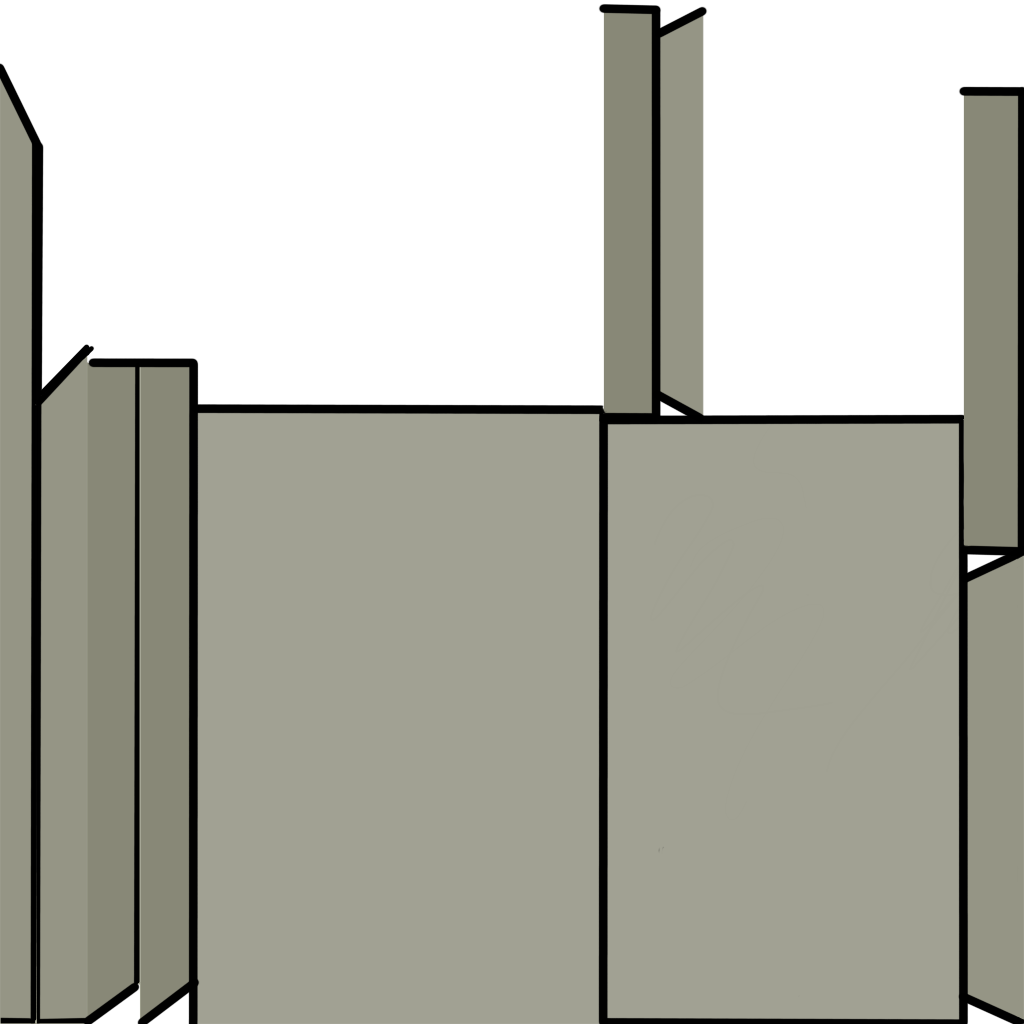
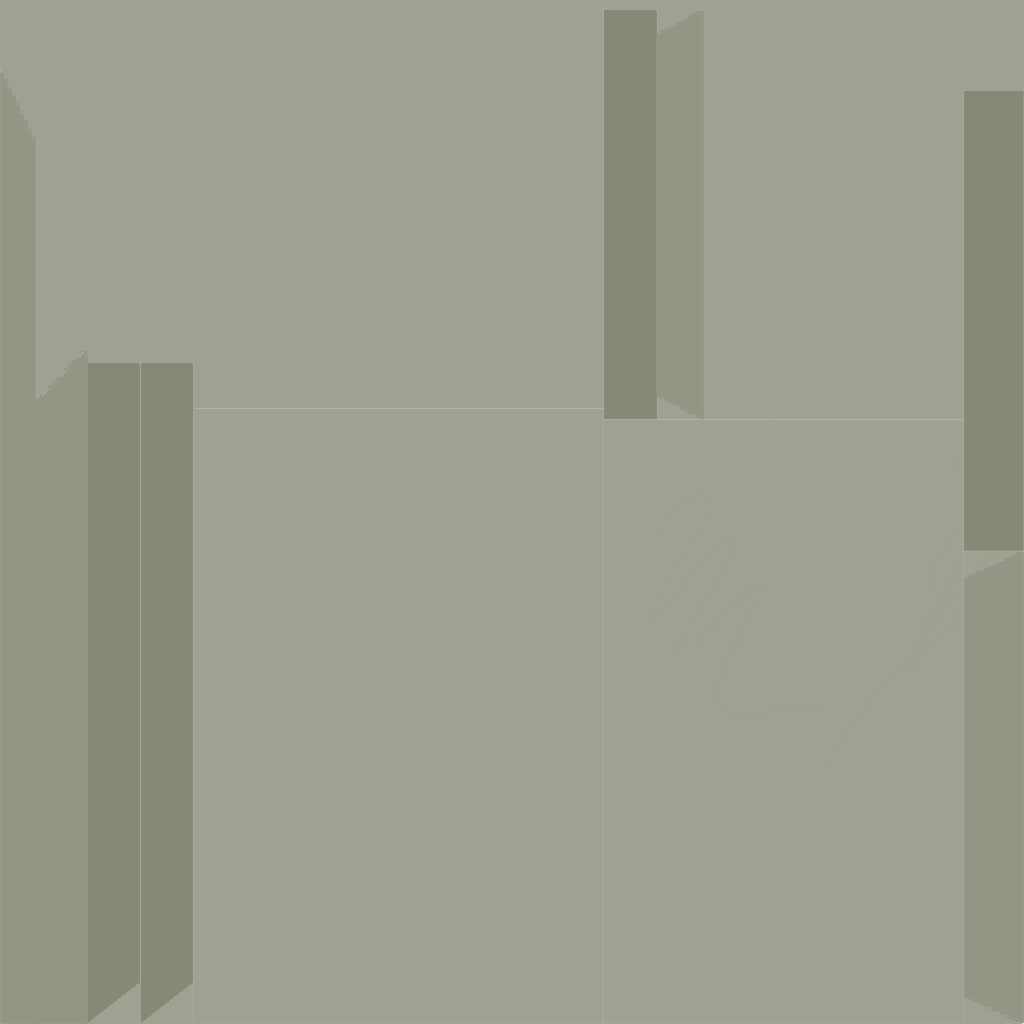
update

diff --git a/src/shaders/outline_shader.rs b/src/shaders/outline_shader.rs
@@ -32,7 +32,7 @@ pub struct OutlineShaderPlugin;
 
 impl Plugin for OutlineShaderPlugin {
     fn build(&self, app: &mut App) {
-        app.add_plugins((
+        app.register_type::<ToonPostProcessSettings>().add_plugins((
             // The settings will be a component that lives in the main world but will
             // be extracted to the render world every frame.
             // This makes it possible to control the effect from the main world.
@@ -305,7 +305,7 @@ impl FromWorld for PostProcessPipeline {
 }
 
 // This is the component that will get passed to the shader
-#[derive(Component, Clone, Copy, ExtractComponent, ShaderType)]
+#[derive(Reflect, Component, Clone, Copy, ExtractComponent, ShaderType)]
 pub struct ToonPostProcessSettings {
     pub depth_threshold: f32,
     pub depth_threshold_depth_mul: f32, // If something is further away, it should require more depth
@@ -319,12 +319,12 @@ pub struct ToonPostProcessSettings {
 impl Default for ToonPostProcessSettings {
     fn default() -> Self {
         Self {
-            depth_threshold: 1.0,
+            depth_threshold: 1.5,
             depth_threshold_depth_mul: 1.0,
-            depth_normal_threshold: 0.5,
+            depth_normal_threshold: 0.7,
             depth_normal_threshold_mul: 30.0,
-            normal_threshold: 0.4,
-            colour_threshold: 0.2,
+            normal_threshold: 0.6,
+            colour_threshold: 0.3,
             sampling_scale: 3.0,
         }
     }
